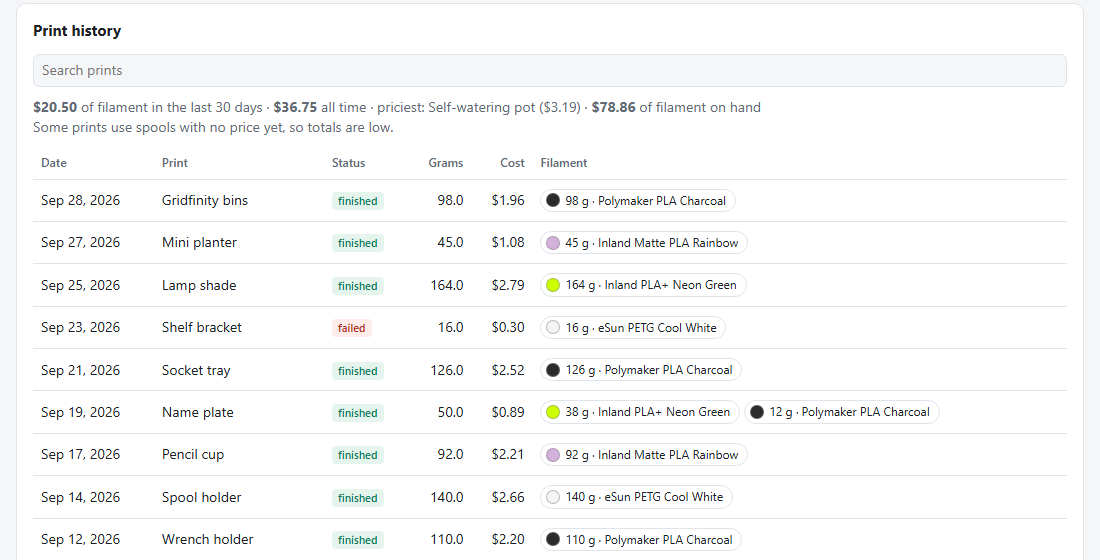
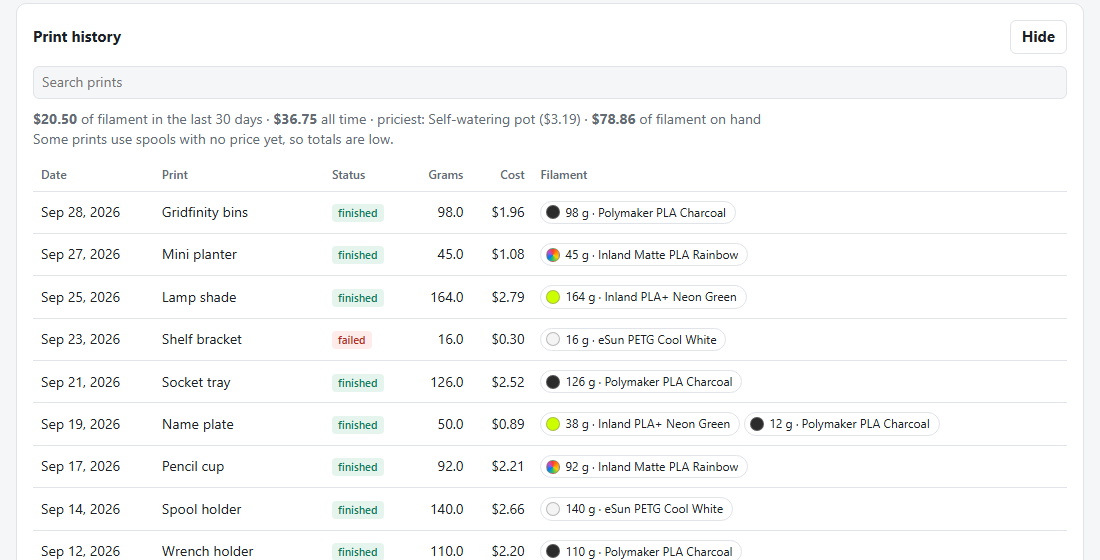
Rainbow swatches for rainbow/multicolor spools
Spools whose color name says rainbow or multicolor get a gradient swatch
everywhere (slots, spool list, print chips); pastel/clay, neon and dark
rainbows shift the bands. A Color style option (Auto / Solid / Rainbow)
overrides it, with a live preview in the spool dialog. Screenshots
refreshed.

diff --git a/web/index.html b/web/index.html
@@ -172,8 +172,10 @@ dialog h3 { margin: 0 0 14px; font-size: 16px; }
       <label for="f_material">Material</label><input id="f_material" placeholder="PETG">
       <label for="f_colorName">Color name</label><input id="f_colorName" placeholder="Black">
       <label for="f_colorHex">Color</label>
-      <div class="row"><input id="f_colorPick" type="color"><input id="f_colorHex" placeholder="RRGGBB" maxlength="7"></div>
+      <div class="row"><span id="f_preview" class="sw big" title="How this spool will look"></span><input id="f_colorPick" type="color"><input id="f_colorHex" placeholder="RRGGBB" maxlength="7"></div>
       <span class="hint" id="f_colorHint" hidden>Guessed from the color name. It's replaced by the real color once this spool is linked to your print history.</span>
+      <label for="f_colorStyle">Color style</label>
+      <select id="f_colorStyle"><option value="">Auto (rainbow if the name says so)</option><option value="solid">Solid</option><option value="rainbow">Rainbow</option></select>
       <label for="f_price">Price paid $</label><input id="f_price" type="number" min="0" step="0.01" placeholder="18.99">
       <label for="f_start">Starting net g</label><input id="f_start" type="number" min="0" step="1">
       <span class="hint">Filament on the spool when new (usually 1000).</span>
@@ -240,7 +242,23 @@ const keyOf = (type, color) => `${String(type || '').toUpperCase()}|${hex6(color
 const fmtG = g => `${Math.round(g).toLocaleString()} g`;
 const fmtDate = s => s ? new Date(s).toLocaleDateString(undefined, { month: 'short', day: 'numeric', year: 'numeric' }) : '—';
 const uid = () => 's' + Date.now().toString(36) + Math.random().toString(36).slice(2, 6);
-const swatch = (hex, cls = '') => `<span class="sw ${cls}" style="background:#${hex6(hex) || 'cccccc'}"></span>`;
+// Rainbow/multicolor spools get a gradient swatch; pastel/neon/dark rainbows shift the bands.
+const RAINBOW = ['FF3B30', 'FF9500', 'FFCC00', '34C759', '007AFF', 'AF52DE'];
+function isRainbow(s) {
+  if (!s) return false;
+  if (s.colorStyle === 'rainbow') return true;
+  return s.colorStyle !== 'solid' && /rainbow|multi-?colou?r/i.test(s.colorName || '');
+}
+function rainbowStops(name) {
+  const n = String(name || '').toLowerCase();
+  const mod = /pastel|clay|macaron|candy/.test(n) ? 'pastel' : /neon|fluorescent/.test(n) ? 'neon' : /\bdark\b|deep/.test(n) ? 'dark' : '';
+  return RAINBOW.map(h => mod ? shadeHex(h, mod) : h);
+}
+function swatchBg(hex, spool) {
+  if (isRainbow(spool)) { const st = rainbowStops(spool.colorName); return `conic-gradient(${[...st, st[0]].map(h => '#' + h).join(',')})`; }
+  return '#' + (hex6(hex) || 'cccccc');
+}
+const swatch = (hex, cls = '', spool = null) => `<span class="sw ${cls}" style="background:${swatchBg(hex, spool)}"></span>`;
 const spoolName = s => [s.brand, s.material, s.colorName].filter(Boolean).join(' ') || 'Unnamed spool';
 // Share of a failed/cancelled print that ran: time until it stopped / the slicer's time estimate.
 function ranFraction(p) {
@@ -472,7 +490,7 @@ function renderSlots() {
     const low = rem < lowGrams();
     h += `<div class="slot ${low ? 'low' : ''}">
       <span class="label">Slot ${n}${low ? ' · <span class="badge low">Low</span>' : ''}</span>
-      <div class="top">${swatch(s.colorHex, 'big')}<div><div class="name">${esc(spoolName(s))}</div>
+      <div class="top">${swatch(s.colorHex, 'big', s)}<div><div class="name">${esc(spoolName(s))}</div>
         <div class="grams">${fmtG(rem)} <span class="muted" style="font-size:13px;font-weight:400">left</span></div></div></div>
       <div class="bar"><div style="width:${pct.toFixed(1)}%"></div></div>
       <div class="muted" style="font-size:12px">${seen}</div>
@@ -527,7 +545,7 @@ function renderSpools() {
   $('spools').innerHTML = `<tr><th></th><th>Spool</th><th>Slot</th><th class="num">Paid</th><th class="num">Start</th><th class="num">Used</th><th class="num">Remaining</th><th class="num">Prints</th><th>Last used</th><th></th></tr>` +
     list.map(s => {
       const st = calc.stats.get(s.id); const rem = remainingOf(s); const low = s.status !== 'empty' && rem < lowGrams();
-      return `<tr class="${s.status === 'empty' ? 'dim' : ''}"><td>${swatch(s.colorHex)}</td>
+      return `<tr class="${s.status === 'empty' ? 'dim' : ''}"><td>${swatch(s.colorHex, '', s)}</td>
         <td>${s.url ? `<a href="${esc(s.url)}" target="_blank" rel="noopener noreferrer" title="Open product page">${esc(spoolName(s))} ↗</a>` : esc(spoolName(s))}${s.status === 'empty' ? ' <span class="muted">(used up)</span>' : ''}</td>
         <td>${calc.spoolSlot.get(s.id) || ''}</td>
         <td class="num">${costPerGram(s) != null ? `<span title="${fmt$(costPerGram(s) * 1000)}/kg">${fmt$(+s.price)}</span>` : '<span class="muted">—</span>'}</td>
@@ -546,7 +564,7 @@ function chips(p) {
     const cls = r.state === 'ignored' ? 'ignored' : r.spool ? '' : 'unmatched';
     const color = r.spool ? r.spool.colorHex : u.color;
     const edited = u.gramsOverride != null && u.gramsOverride !== '' ? '*' : '';
-    return `<span class="chip ${cls}" data-act="editUsage" data-pid="${esc(p.id)}" data-ui="${i}" title="${esc((u.type || '') + ' ' + (u.color ? '#' + hex6(u.color) : '') + (u.slot ? ' · slot ' + u.slot : ''))}">${swatch(color)}${g.toFixed(g < 10 ? 1 : 0)} g${edited} · ${esc(label)}</span>`;
+    return `<span class="chip ${cls}" data-act="editUsage" data-pid="${esc(p.id)}" data-ui="${i}" title="${esc((u.type || '') + ' ' + (u.color ? '#' + hex6(u.color) : '') + (u.slot ? ' · slot ' + u.slot : ''))}">${swatch(color, '', r.spool)}${g.toFixed(g < 10 ? 1 : 0)} g${edited} · ${esc(label)}</span>`;
   }).join('') || '<span class="muted">no filament data</span>';
 }
 
@@ -603,6 +621,7 @@ function openSpool(spool, isNew) {
   $('f_colorName').value = spool.colorName || '';
   $('f_colorHex').value = hex6(spool.colorHex);
   $('f_colorPick').value = '#' + (hex6(spool.colorHex).length === 6 ? hex6(spool.colorHex) : 'CCCCCC');
+  $('f_colorStyle').value = spool.colorStyle || '';
   $('f_colorHex').dataset.guessed = spool.colorGuessed ? '1' : '';
   $('f_colorHint').hidden = !spool.colorGuessed;
   $('f_start').value = spool.startGrams ?? 1000;
@@ -632,6 +651,7 @@ function openSpool(spool, isNew) {
   $('f_remaining').dataset.orig = Math.round(rem);
   $('f_remainingHint').textContent = hint + ' If you weighed it, enter the filament only (scale reading minus the empty spool); later prints are subtracted from that.';
   $('spoolDelete').hidden = isNew;
+  updatePreview();
   $('spoolDlg').showModal();
 }
 
@@ -654,6 +674,10 @@ function applyScaleReading() {
   if (reading !== '' && tare !== '') $('f_remaining').value = Math.round(+reading - +tare);
 }
 
+function updatePreview() {
+  $('f_preview').style.background = swatchBg($('f_colorHex').value, { colorName: $('f_colorName').value, colorStyle: $('f_colorStyle').value });
+}
+
 // Grams a not-yet-saved spool would pick up from history.
 function previewUsed(spool) {
   const tmp = { ...spool, id: '__preview' };
@@ -672,6 +696,7 @@ function saveSpool() {
   s.colorName = $('f_colorName').value.trim();
   s.colorHex = hex6($('f_colorHex').value);
   s.colorGuessed = !!$('f_colorHex').dataset.guessed;
+  s.colorStyle = $('f_colorStyle').value || null;
   s.startGrams = +$('f_start').value || 0;
   s.price = $('f_price').value === '' ? null : +$('f_price').value;
   s.tareGrams = $('f_tare').value === '' ? null : +$('f_tare').value;
@@ -826,6 +851,7 @@ document.addEventListener('input', e => {
   if (e.target.id === 'f_colorPick' || e.target.id === 'f_colorHex') { $('f_colorHex').dataset.guessed = ''; $('f_colorHint').hidden = true; }
   if (e.target.id === 'f_colorPick') $('f_colorHex').value = e.target.value.slice(1).toUpperCase();
   if (e.target.id === 'f_colorHex' && hex6(e.target.value).length === 6) $('f_colorPick').value = '#' + hex6(e.target.value);
+  if (e.target.closest('#spoolDlg')) updatePreview();
 });
 
 // Keeps the local server alive while the page is open; it exits a while after the tab closes.
